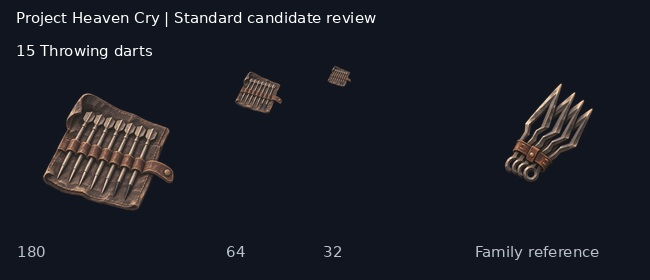
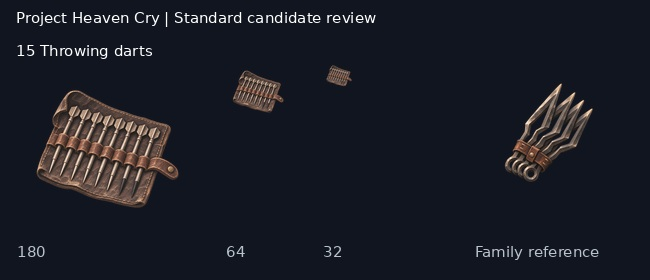
Deliver Door-knocker and eight Throwing Darts

Changed region(s): [[0.0308, 0.3143, 0.2769, 0.7714], [0.3385, 0.2571, 0.4308, 0.4], [0.4923, 0.2286, 0.5538, 0.3143]]

diff --git a/art/_archive/prompt-pack/2026-11-19-file-09/HANDOFF.md b/art/_archive/prompt-pack/2026-11-19-file-09/HANDOFF.md
@@ -1,7 +1,7 @@
 # November 19 File 09 gear art
 
 Delivery branch `art/2026-11-19-heavy-and-strange` starts from develop commit `2020b5c2a`.
-**2 of 16** File 09 Standard masters delivered.
+**4 of 16** File 09 Standard masters delivered.
 File 09 is independent of the separate File 05 and 07 delivery. The 0.30 hold list contains no matching entries.
 The four higher grades wait for approved Standard masters.
 
@@ -12,16 +12,16 @@ The four higher grades wait for approved Standard masters.
 | 03 | Throwaway tube (Pattern) | awaits prerequisite 20 |
 | 04 | Siege tube (Pattern) | awaits prerequisite 20 |
 | 05 | Spinner (Pattern) | awaits prerequisite 21 |
-| 06 | Twin rotary (invented: built from one pattern's parts; paste no pattern clause) | pending |
+| 06 | Twin rotary (invented: built from one pattern's parts; paste no pattern clause) | image service declined this render |
 | 07 | Blackpoint carbine (Pattern) | awaits prerequisite 18 |
 | 08 | Wall gun (Pattern) | awaits prerequisite 18 |
 | 09 | Votive torch | image service declined this render |
-| 10 | Cathedral burner | pending |
+| 10 | Cathedral burner | image service declined this render |
 | 11 | Snarl knife | image service declined this render |
 | 12 | Wreck saw | image service declined this render |
 | 13 | Piston knuckles | delivered as a review candidate |
-| 14 | Door-knocker | pending |
-| 15 | Throwing darts | pending |
+| 14 | Door-knocker | delivered as a review candidate |
+| 15 | Throwing darts | delivered as a review candidate |
 | 16 | Throwing javelins | delivered as a review candidate |
 | 17 | Hellraiser service rifle | image service declined this render |
 | 18 | .700 Blackpoint anti-materiel | image service declined this render |

diff --git a/art/_archive/prompt-pack/2026-11-19-file-09/rejected/14-horizontal/REVIEW.md b/art/_archive/prompt-pack/2026-11-19-file-09/rejected/14-horizontal/REVIEW.md
@@ -1,0 +1,1 @@
+The draft has the right materials and paired rods, but it lies horizontally. The brief calls for an upright, distinctly long gauntlet.
